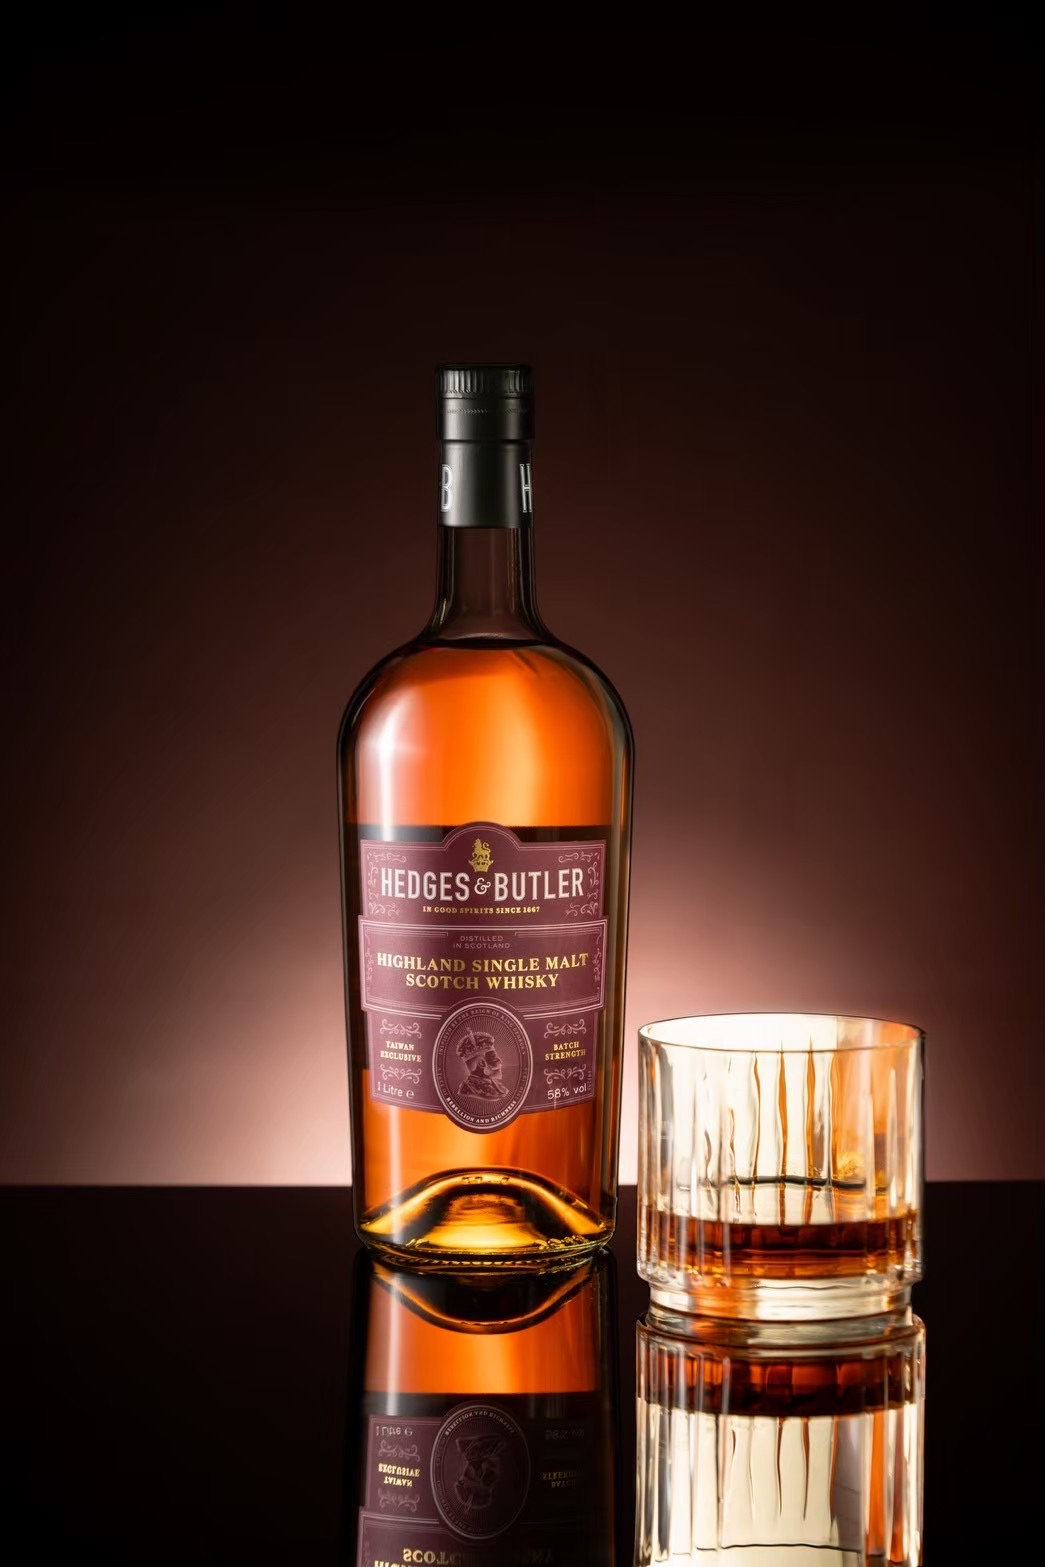
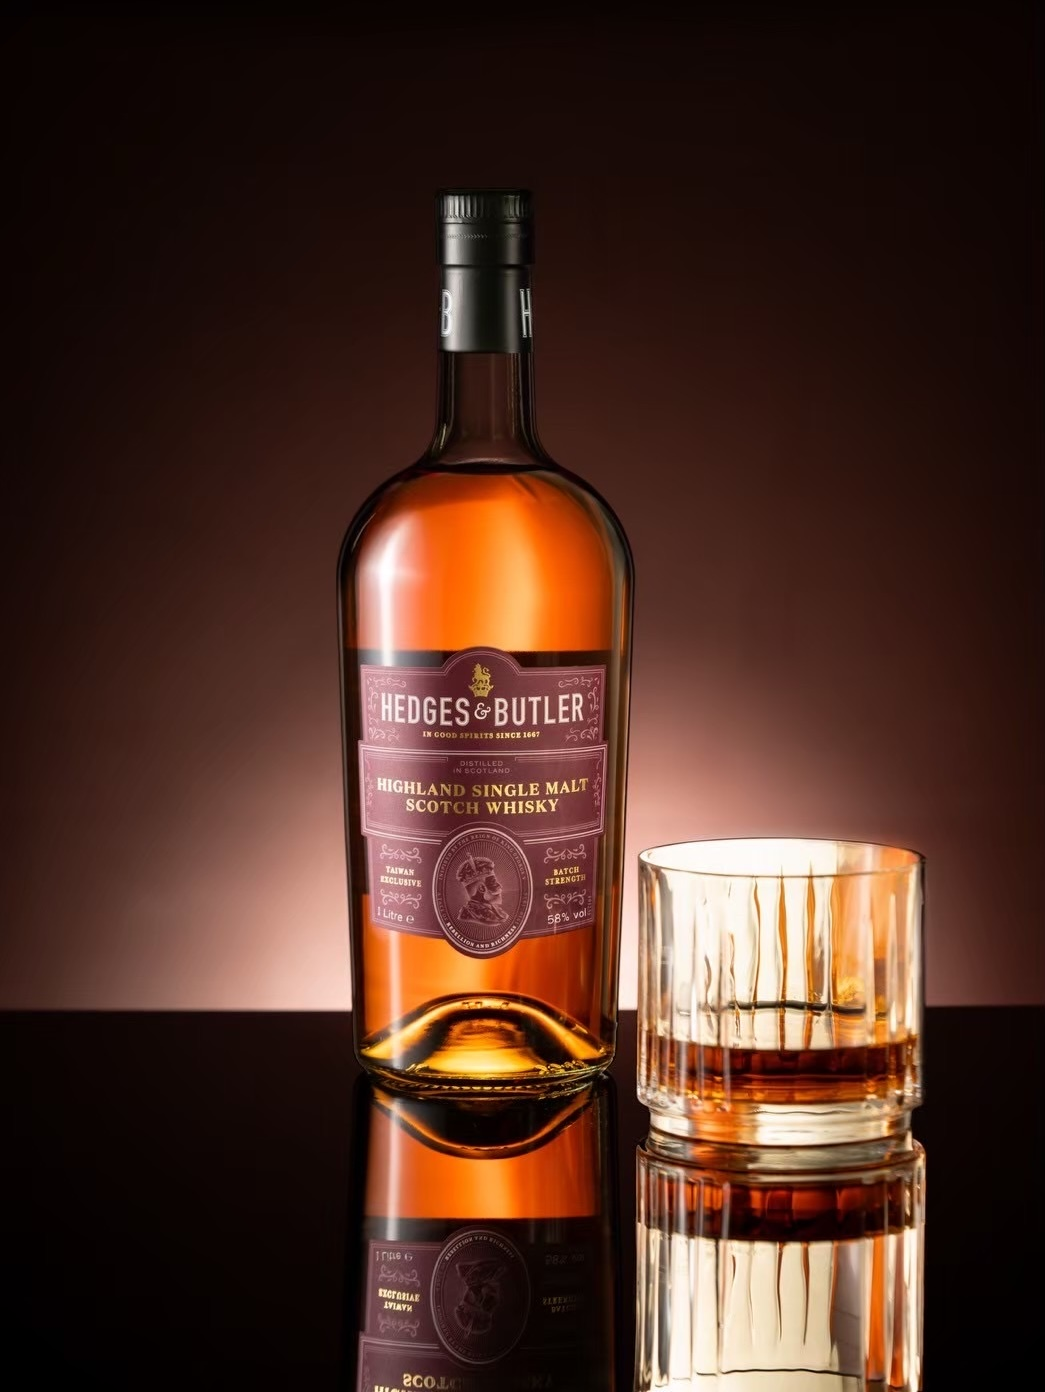
updated my products section

diff --git a/index.html b/index.html
@@ -71,7 +71,7 @@
                 </div>
               </li>
               <li class="carousel-slide">
-                <img src="static/images/uploads/HB12_photography.JPG" alt="Product 2" />
+                <img src="static/images/uploads/HB12_photography2.JPG" alt="Product 2" />
                 <div class="product-info">
                   <h3>HB 12年 1L</h3>
                   <button class="learn-more">瞭解更多</button>
@@ -92,7 +92,7 @@
                 </div>
               </li>
               <li class="carousel-slide">
-                <img src="static/images/uploads/HBhighland_photography.JPG" alt="Product 5" />
+                <img src="static/images/uploads/HBhighland_photography2.JPG" alt="Product 5" />
                 <div class="product-info">
                   <h3>HB 高地珍藏 1L</h3>
                   <button class="learn-more">瞭解更多</button>

diff --git a/styles.css b/styles.css
@@ -198,7 +198,6 @@ body {
 
   .carousel-slide img {
     width: 100%;
-    height: 300px;
     border-radius: 10px;
   }
 
@@ -214,7 +213,7 @@ body {
   }
 
   .product-info {
-    background-color: #ffffff70;
+    background-color: #ffffff49;
     padding: 10px;
     margin-top: 10px;
     border-radius: 5px;
